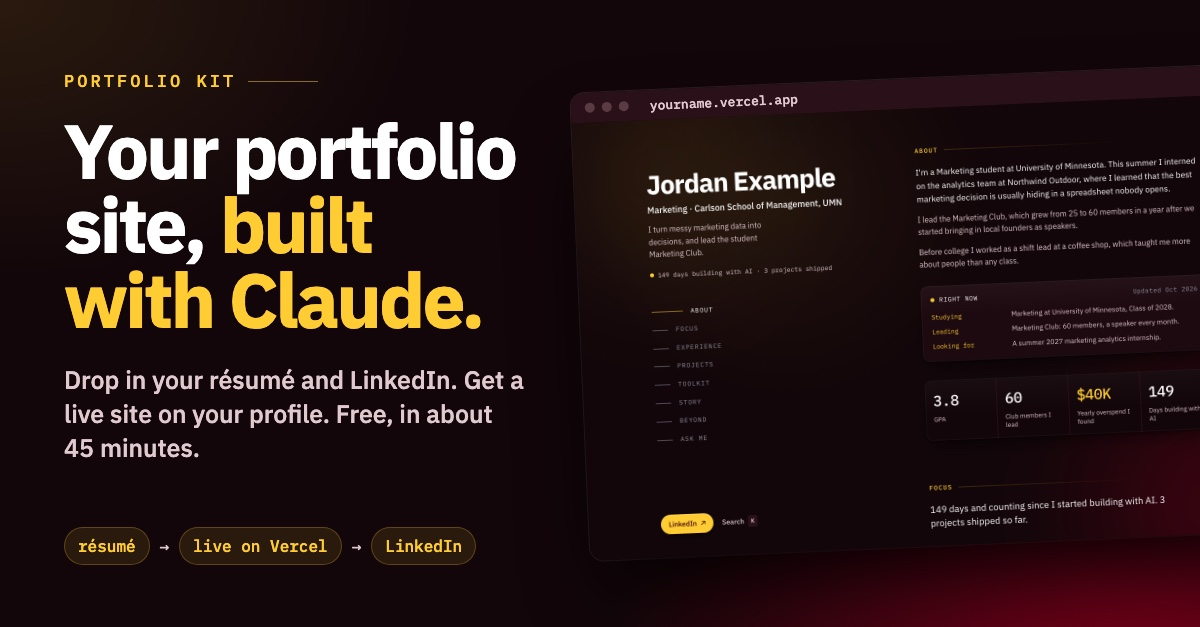
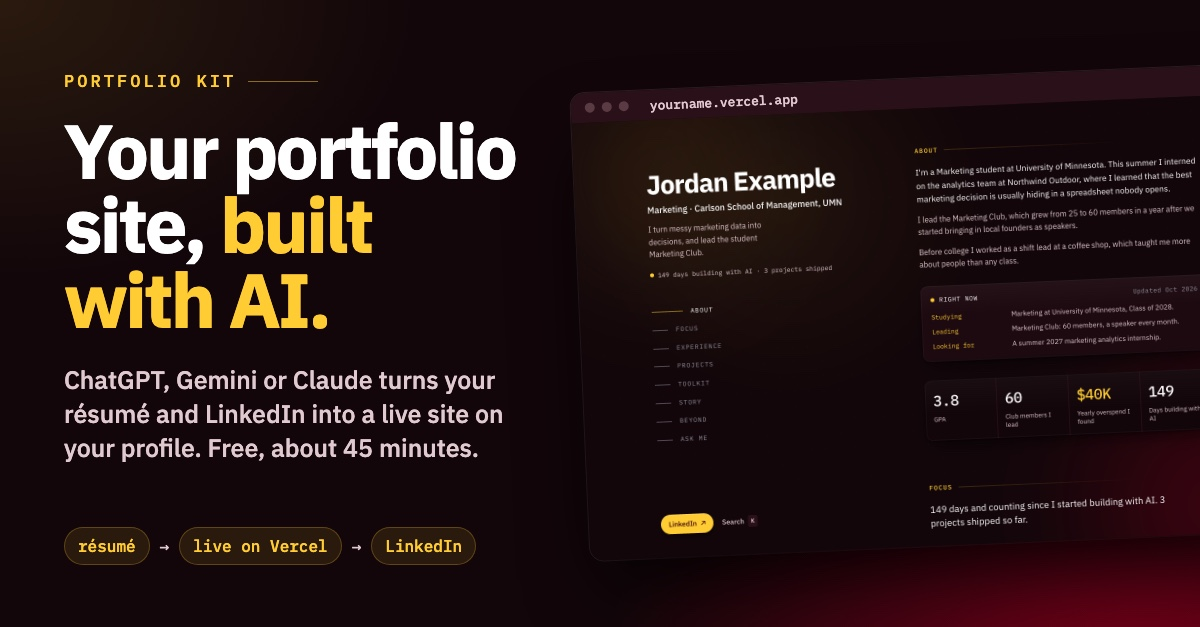
Thumbnail: built with AI (ChatGPT, Gemini or Claude)

Changed region(s): [[0.0308, 0.5758, 0.4317, 0.7273], [0.185, 0.4242, 0.4008, 0.5455]]

diff --git a/assets/social/thumbnail.html b/assets/social/thumbnail.html
@@ -25,8 +25,8 @@
 </style></head><body>
   <div class="copy">
     <div class="eyebrow">Portfolio Kit</div>
-    <h1>Your portfolio site, <span>built with Claude.</span></h1>
-    <p>Drop in your résumé and LinkedIn. Get a live site on your profile. Free, in about 45 minutes.</p>
+    <h1>Your portfolio site, <span>built with AI.</span></h1>
+    <p>ChatGPT, Gemini or Claude turns your résumé and LinkedIn into a live site on your profile. Free, about 45 minutes.</p>
   </div>
   <div class="steps"><b>résumé</b><i>→</i><b>live on Vercel</b><i>→</i><b>LinkedIn</b></div>
   <figure class="shot" style="margin:0"><div class="bar"><span></span><span></span><span></span><em>yourname.vercel.app</em></div><img src="site-shot.png" alt=""></figure>
